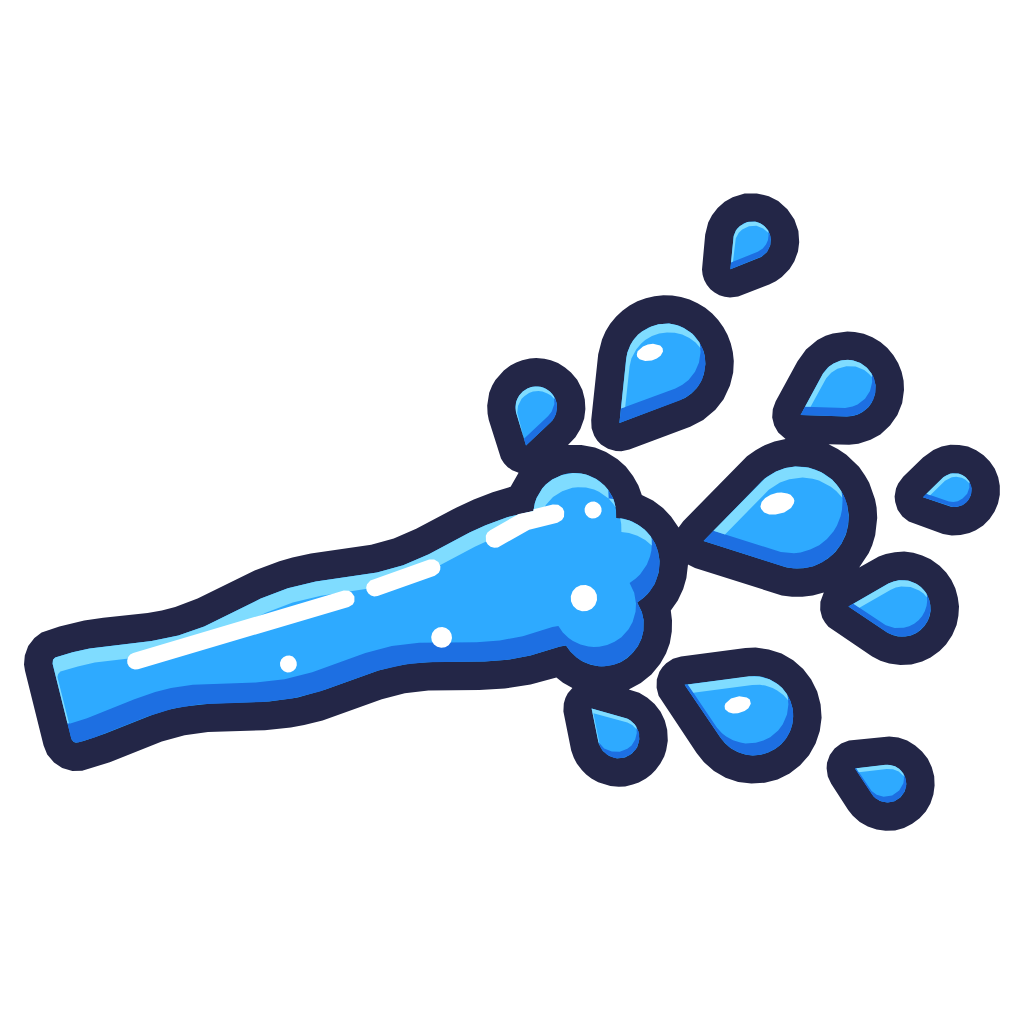
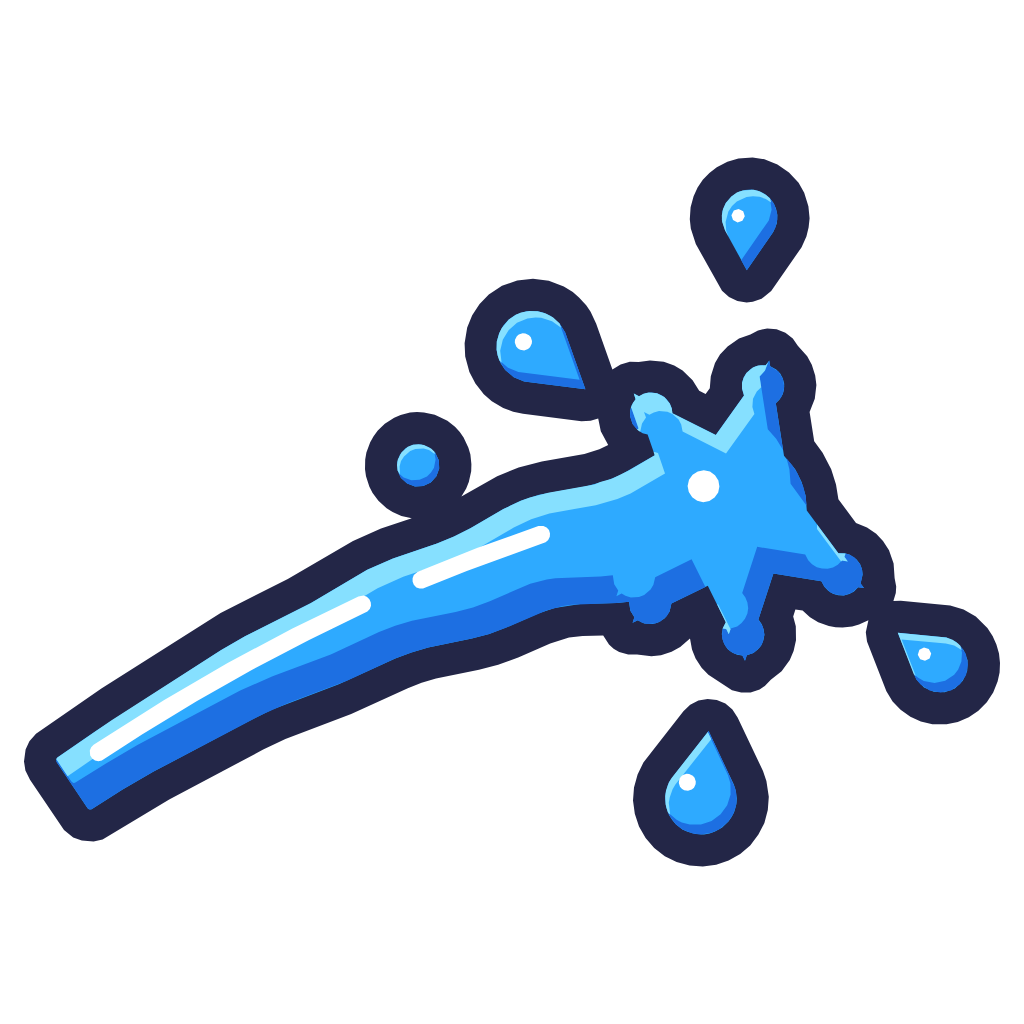
Redesign water spray as a smooth arcing jet with a splash
The jet now comes from the gun muzzle and arcs onto the roller cover in
the banner. The spray icons use the same shared jet builder.

Claude-Session: https://claude.ai/code/session_017qQQt34xo7TvFdNzaqcfa5

Changed region(s): [[0.0, 0.1562, 1.0, 0.8438]]

diff --git a/icons/src/water_spray.py b/icons/src/water_spray.py
@@ -1,102 +1,29 @@
-"""Generate a cartoon water spray icon as SVG (same navy outline as the other icons).
+"""Generate the cartoon water spray icon as SVG (same navy outline as the other icons).
 
 Usage:  python3 water_spray.py [out_dir]      (needs: pip install shapely)
-Writes water_spray.svg (horizontal, nozzle end on the left) and
+Writes water_spray.svg (jet going right, nozzle end on the left) and
 water_spray_tilted.svg (tilted 14 degrees up to line up with the water gun icons).
-
-Everything is built with shapely and written as plain filled paths in separate
-layers (outline, water, shadow, light, shine), so the SVG stays easy to edit.
+Layers: outline, base, dark, light, shine (plain filled paths, easy to recolor).
 """
-import math, os, sys
-import numpy as np
-from shapely.geometry import Point, LineString, Polygon
-from shapely.ops import unary_union
+import os, sys
 from shapely import affinity
+sys.path.insert(0, os.path.dirname(os.path.abspath(__file__)))
+from water_fx import make_spray, layers_svg
 
 OUT = sys.argv[1] if len(sys.argv) > 1 else "."
-S = 512
-OUTLINE = 15                 # visible outline thickness (matches the other icons)
-PAD = 12
-COL = dict(outline="#232647", dark="#1d6fe2", base="#2eaaff", light="#7fdcff", shine="#ffffff")
+S, PAD = 512, 12
 
-# ---------- shapes (drawn in a 512 box, nozzle on the left, spray going right) ----------
-def stream():
-    x0, x1, cy = 22.0, 286.0, 256.0
-    xs = np.linspace(x0, x1, 90)
-    h = 17 + 15 * ((xs - x0) / (x1 - x0)) ** 1.4
-    top = [(x, cy - hh - 3.5 * math.sin(x / 19)) for x, hh in zip(xs, h)]
-    bot = [(x, cy + hh + 3.5 * math.sin((x + 11) / 19)) for x, hh in zip(xs, h)]
-    body = Polygon(top + bot[::-1]).buffer(3, quad_segs=8)
-    # splashy front: a big lobe with two smaller lobes peeling off up and down
-    lobes = [Point(x1, cy).buffer(36, quad_segs=24),
-             Point(x1 + 20, cy - 30).buffer(22, quad_segs=24),
-             Point(x1 + 20, cy + 30).buffer(22, quad_segs=24),
-             Point(x1 + 34, cy).buffer(24, quad_segs=24)]
-    return unary_union([body] + lobes)
-
-FOCUS = (250.0, 256.0)       # droplets fly away from here
-def droplet(cx, cy, r, stretch=1.9):
-    d = np.array([cx - FOCUS[0], cy - FOCUS[1]]); d = d / np.linalg.norm(d)
-    tip = Point(cx - d[0] * r * stretch, cy - d[1] * r * stretch)
-    return unary_union([Point(cx, cy).buffer(r, quad_segs=24), tip]).convex_hull
-
-DROPS = [  # (x, y, radius) -- spaced so each drop keeps its own outline
-    (420, 256, 27), (372, 160, 21), (372, 352, 21),
-    (462, 196, 15), (462, 316, 15), (300, 166, 11), (300, 346, 11),
-    (432, 108, 10), (432, 404, 10), (504, 262, 9),
-]
-
-def build(angle=0.0):
-    shapes = [stream()] + [droplet(*d) for d in DROPS]
+def build(angle):
+    layers = make_spray((40, 300), (370, 250), 26, 62, bend=0.10, outline=15)
     if angle:
-        shapes = [affinity.rotate(s, angle, origin=(256, 256)) for s in shapes]
-    U = unary_union(shapes)
-    outline = U.buffer(OUTLINE, quad_segs=16)
-    # cel shading per shape: dark crescent bottom-right, light crescent top-left,
-    # sized to each shape so small drops are not swallowed by shadow
-    sizes = [34.0] + [r for _, _, r in DROPS]
-    dark = unary_union([s.difference(affinity.translate(s, -0.12 * k, -0.30 * k))
-                        for s, k in zip(shapes, sizes)]).intersection(U)
-    light = unary_union([s.difference(affinity.translate(s, 0.08 * k, 0.22 * k))
-                         for s, k in zip(shapes, sizes)]).intersection(U).difference(dark)
-    # shine: streaks along the top of the stream, glints on the bigger drops, a few bubbles
-    shine = [LineString([(62, 245), (178, 240)]).buffer(4.5, quad_segs=8),
-             LineString([(194, 238), (226, 235)]).buffer(4.5, quad_segs=8),
-             LineString([(262, 228), (280, 223), (296, 223)]).buffer(5, quad_segs=8),
-             Point(140, 266).buffer(4.5), Point(222, 272).buffer(5.5), Point(300, 270).buffer(7),
-             Point(316, 226).buffer(4.5)]
-    for x, y, r in DROPS:
-        if r >= 18:
-            shine.append(affinity.scale(Point(x - 0.32 * r, y - 0.36 * r).buffer(0.26 * r, quad_segs=12), 1.3, 0.8))
-    shine = unary_union(shine)
-    if angle:
-        shine = affinity.rotate(shine, angle, origin=(256, 256))
-    shine = shine.intersection(U)
-    # fit everything (including the outline) into the canvas
-    minx, miny, maxx, maxy = outline.bounds
+        layers = [(n, affinity.rotate(g, angle, origin=(256, 256))) for n, g in layers]
+    minx, miny, maxx, maxy = layers[0][1].bounds
     sc = (S - 2 * PAD) / max(maxx - minx, maxy - miny)
     ox = S / 2 - (minx + maxx) / 2 * sc; oy = S / 2 - (miny + maxy) / 2 * sc
-    fit = lambda g: affinity.affine_transform(g, [sc, 0, 0, sc, ox, oy])
-    return [(name, fit(g).simplify(0.25)) for name, g in
-            (("outline", outline), ("base", U), ("dark", dark), ("light", light), ("shine", shine))]
-
-def path_d(geom):
-    polys = getattr(geom, "geoms", [geom])
-    d = []
-    for p in polys:
-        if p.is_empty or p.geom_type != "Polygon":
-            continue
-        for ring in [p.exterior, *p.interiors]:
-            c = list(ring.coords)[:-1]
-            d.append("M" + " L".join(f"{x:.1f},{y:.1f}" for x, y in c) + " Z")
-    return " ".join(d)
-
-def svg(layers):
-    body = "".join(f'<path id="{n}" d="{path_d(g)}" fill="{COL[n]}" fill-rule="evenodd"/>' for n, g in layers)
-    return (f'<svg xmlns="http://www.w3.org/2000/svg" viewBox="0 0 {S} {S}">'
-            f'<title>Water spray</title>{body}</svg>\n')
+    return [(n, affinity.affine_transform(g, [sc, 0, 0, sc, ox, oy])) for n, g in layers]
 
 for name, angle in (("water_spray", 0.0), ("water_spray_tilted", -14.0)):
     path = os.path.join(OUT, f"{name}.svg")
-    open(path, "w").write(svg(build(angle)))
+    open(path, "w").write(f'<svg xmlns="http://www.w3.org/2000/svg" viewBox="0 0 {S} {S}">'
+                          f'<title>Water spray</title>{layers_svg(build(angle), prefix=name)}</svg>\n')
     print("wrote", path)

diff --git a/icons/src/water_fx.py b/icons/src/water_fx.py
@@ -1,0 +1,99 @@
+"""Cartoon water jet + splash geometry shared by water_spray.py and banner.py (needs shapely).
+
+make_spray(p0, p1, ...) builds a smooth arcing jet from p0 (nozzle) to p1 (impact)
+that widens as it travels and bursts into a splash of round droplets.
+It returns plain-polygon layers: outline, base, dark, light, shine.
+"""
+import math
+import numpy as np
+from shapely.geometry import Point, Polygon, LineString
+from shapely.ops import unary_union
+from shapely import affinity
+
+COL = dict(outline="#232647", base="#2eaaff", dark="#1d6fe2", light="#86e0ff", shine="#ffffff")
+
+def _bezier(p0, c, p1, n=80):
+    t = np.linspace(0, 1, n)[:, None]
+    return (1 - t) ** 2 * p0 + 2 * (1 - t) * t * c + t ** 2 * p1, t[:, 0]
+
+def _teardrop(center, r, toward, stretch=1.7):
+    d = np.array(center) - np.array(toward); d = d / np.linalg.norm(d)
+    tip = Point(*(np.array(center) - d * r * stretch))
+    return unary_union([Point(*center).buffer(r, quad_segs=20), tip]).convex_hull
+
+def make_spray(p0, p1, w0, w1, bend=0.12, outline=15, seed=3, splash=1.0):
+    """p0 nozzle, p1 impact (canvas px, y down); w0/w1 jet width at each end;
+    bend: how much the jet arcs upward (fraction of its length)."""
+    rng = np.random.default_rng(seed)
+    p0, p1 = np.array(p0, float), np.array(p1, float)
+    L = np.linalg.norm(p1 - p0); d = (p1 - p0) / L
+    nrm = np.array([d[1], -d[0]])                       # left normal (points up for a rightward jet)
+    if nrm[1] > 0: nrm = -nrm                           # always arc upward on screen
+    c = (p0 + p1) / 2 + nrm * bend * L
+    C, t = _bezier(p0, c, p1)
+    tang = np.gradient(C, axis=0); tang /= np.linalg.norm(tang, axis=1)[:, None]
+    side = np.stack([tang[:, 1], -tang[:, 0]], axis=1)
+    side[side[:, 1] > 0] *= -1                          # side = "up" normal along the jet
+    w = w0 + (w1 - w0) * t ** 1.3
+    ripple = 0.06 * w * np.sin(t * 9 * math.pi) * t     # gentle ripple that grows downstream
+    top = C + side * (w / 2 + ripple)[:, None]
+    bot = C - side * (w / 2 - ripple)[:, None]
+    jet = Polygon(np.vstack([top, bot[::-1]])).buffer(1.5, quad_segs=6)
+
+    # splash: a splat with pointed lobes at the impact, plus big drops flung back and sideways
+    k = w1 * splash
+    back = math.atan2(-d[1], -d[0])                     # direction the water came from
+    lobes = []
+    for a in (-2.2, -1.25, -0.45, 0.45, 1.25, 2.2):
+        ang = back + a
+        tipp = p1 + 1.15 * k * np.array([math.cos(ang), math.sin(ang)])
+        base = p1 + 0.25 * k * np.array([math.cos(ang), math.sin(ang)])
+        lobes.append(unary_union([Point(*base).buffer(0.34 * k, quad_segs=16), Point(*tipp)]).convex_hull)
+        lobes.append(Point(*(p1 + 0.95 * k * np.array([math.cos(ang), math.sin(ang)]))).buffer(0.16 * k, quad_segs=12))
+    blob = unary_union([Point(*p1).buffer(0.55 * k, quad_segs=24)] + lobes)
+    drops = []
+    for i, a in enumerate((-2.0, -1.0, 1.0, 2.0)):
+        ang = back + a + rng.uniform(-0.12, 0.12)
+        dist = k * (1.95 + 0.25 * (i % 2))
+        r = k * (0.27 if i in (1, 2) else 0.21)
+        cpos = p1 + dist * np.array([math.cos(ang), math.sin(ang)])
+        drops.append(_teardrop(tuple(cpos), r, tuple(p1), stretch=1.9))
+    mist = []
+    i = int(0.62 * (len(C) - 1))
+    mist.append(Point(*(C[i] + side[i] * (w[i] / 2 + 0.6 * w1))).buffer(0.16 * w1, quad_segs=12))
+
+    shapes = [unary_union([jet, blob])] + drops + mist
+    U = unary_union(shapes)
+    sizes = [w1 * 0.7] + [k * 0.25] * len(drops) + [0.16 * w1] * len(mist)
+    dark = unary_union([s.difference(affinity.translate(s, -0.10 * z, -0.32 * z))
+                        for s, z in zip(shapes, sizes)]).intersection(U)
+    light = unary_union([s.difference(affinity.translate(s, 0.06 * z, 0.22 * z))
+                         for s, z in zip(shapes, sizes)]).intersection(U).difference(dark)
+    # shine: two streaks riding the top of the jet + glints on the bigger drops
+    def streak(a, b, off, width):
+        ia, ib = int(a * (len(C) - 1)), int(b * (len(C) - 1))
+        line = [tuple(C[j] + side[j] * (w[j] / 2) * off) for j in range(ia, ib + 1)]
+        return LineString(line).buffer(width, quad_segs=8)
+    shine = [streak(0.06, 0.48, 0.45, max(3, w0 * 0.16)), streak(0.56, 0.74, 0.42, max(3, w0 * 0.16))]
+    for dr in drops:
+        cx, cy = dr.centroid.x, dr.centroid.y
+        rr = math.sqrt(dr.area / math.pi)
+        if rr > 9:
+            shine.append(Point(cx - 0.3 * rr, cy - 0.32 * rr).buffer(0.22 * rr, quad_segs=10))
+    shine.append(Point(*(p1 + np.array([-0.18, -0.22]) * k)).buffer(0.12 * k, quad_segs=12))
+    shine = unary_union(shine).intersection(U)
+    return [("outline", U.buffer(outline, quad_segs=16)), ("base", U), ("dark", dark),
+            ("light", light), ("shine", shine)]
+
+def path_d(geom):
+    d = []
+    for p in getattr(geom, "geoms", [geom]):
+        if p.is_empty or p.geom_type != "Polygon":
+            continue
+        for ring in [p.exterior, *p.interiors]:
+            d.append("M" + " L".join(f"{x:.1f},{y:.1f}" for x, y in list(ring.coords)[:-1]) + " Z")
+    return " ".join(d)
+
+def layers_svg(layers, prefix="water", simplify=0.3):
+    return "".join(f'<path id="{prefix}-{n}" d="{path_d(g.simplify(simplify))}" fill="{COL[n]}" '
+                   f'fill-rule="evenodd"/>' for n, g in layers)

diff --git a/icons/src/banner.py b/icons/src/banner.py
@@ -1,10 +1,12 @@
 """Compose the Wash & Paint banner (1920x1080, no text) from the icon SVGs.
 
-Usage:  python3 banner.py [icons_dir] [out_dir]
+Usage:  python3 banner.py [icons_dir] [out_dir]      (needs: pip install shapely)
 Left half: paint theme with the roller. Right half: water theme with the pump
 water gun spraying toward the centre. Icons are embedded as nested SVGs.
 """
 import math, os, random, re, sys
+sys.path.insert(0, os.path.dirname(os.path.abspath(__file__)))
+from water_fx import make_spray, layers_svg
 
 ICONS = sys.argv[1] if len(sys.argv) > 1 else ".."
 OUT = sys.argv[2] if len(sys.argv) > 2 else "."
@@ -102,8 +104,8 @@ svg = f'''<svg xmlns="http://www.w3.org/2000/svg" viewBox="0 0 {W} {H}" width="{
 <polyline points="{poly(divider)}" fill="none" stroke="{NAVY}" stroke-width="44" stroke-linejoin="round"/>
 <polyline points="{poly(divider)}" fill="none" stroke="#ffffff" stroke-width="20" stroke-linejoin="round"/>
 <rect width="{W}" height="{H}" fill="url(#vignette)"/>
-{icon("water_spray_tilted.svg", 815, 395, 600, rot=0, flip=True)}
 {icon("paint_roller_2.svg", 480, 540, 880)}
+{layers_svg(make_spray((1080, 512), (488, 262), 36, 86, bend=0.17, outline=24, seed=5), prefix="jet")}
 {icon("water_gun_2.svg", 1440, 560, 860, flip=True)}
 {icon("water_drop.svg", 1000, 205, 120, rot=-18)}
 {icon("water_drop.svg", 1095, 880, 90, rot=22)}
